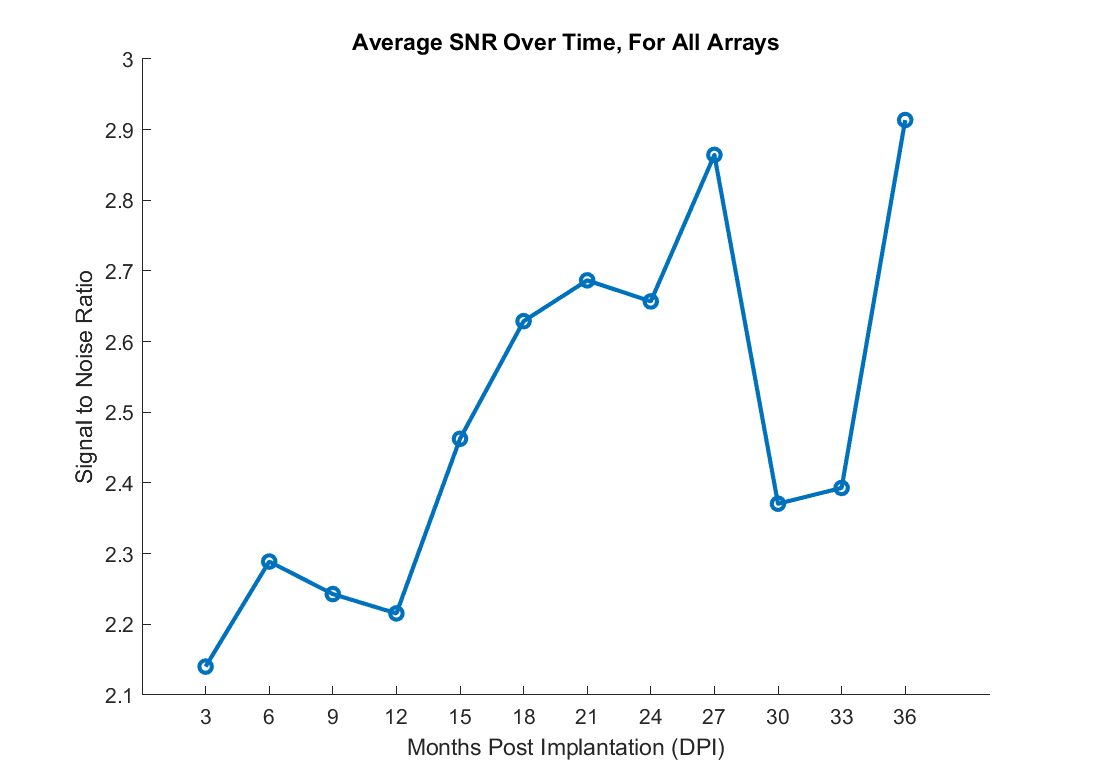
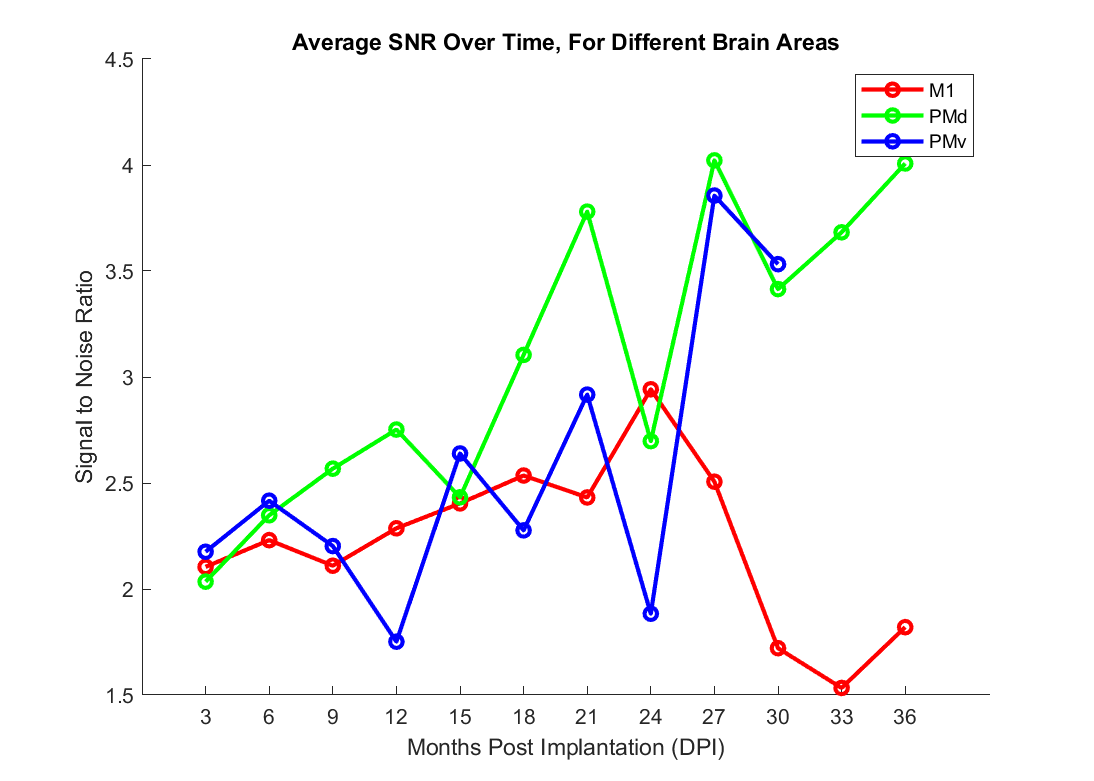
finish first version of figure six

diff --git a/code/paper_figures_code/figure_six.m b/code/paper_figures_code/figure_six.m
@@ -10,34 +10,42 @@ all_array_names_temp = {array_data.array_name};
 all_days_temp = [array_data.relative_days];
 all_SNR_temp = [array_data.SNR_all_channels];
 array_SNR = nan(numel(time_points_in_days),numel(array_names));
+areas = {'M1','PMd','PMv'};
+colors = hsv(numel(areas));
 
-for iArray = 1:length(array_names)
-    
-    array_files_index = cellfun(@(x) strcmp(x,array_names{iArray}),all_array_names_temp);
-    array_relative_days = all_days_temp(array_files_index);
-    array_SNR_per_file = all_SNR_temp(array_files_index);
-    for iTimePoint = 1:length(time_points_in_days)
-        ind_array_SNR = nan(numel(array_relative_days),1);
-        for iFile = 1:length(array_relative_days)
-            if ((time_points_in_days(iTimePoint)- one_month) < array_relative_days(iFile)) && (array_relative_days(iFile) < (time_points_in_days(iTimePoint)+ one_month))
-                ind_array_SNR(iFile) = array_SNR_per_file(iFile);
+for iArea = 1:numel(areas)
+    array_SNR = nan(length(time_points_in_days),length(array_names));
+    for iArray = 1:length(array_names)
+        if strfind(array_names{iArray},areas{iArea})
+            array_files_index = cellfun(@(x) strcmp(x,array_names{iArray}),all_array_names_temp);
+            array_relative_days = all_days_temp(array_files_index);
+            array_SNR_per_file = all_SNR_temp(array_files_index);
+            for iTimePoint = 1:length(time_points_in_days)
+                ind_array_SNR = nan(numel(array_relative_days),1);
+                for iFile = 1:length(array_relative_days)
+                    if ((time_points_in_days(iTimePoint)- one_month) < array_relative_days(iFile)) && (array_relative_days(iFile) < (time_points_in_days(iTimePoint)+ one_month))
+                        ind_array_SNR(iFile) = array_SNR_per_file(iFile);
+                    end
+                end
+                array_SNR(iTimePoint,iArray) = nanmean(ind_array_SNR);
+                clear ind_array_SNR
             end
         end
-        array_SNR(iTimePoint,iArray) = nanmean(ind_array_SNR);
-        clear ind_array_SNR
     end
+    
+    mean_array_SNR{iArea} = nanmean(array_SNR,2);
 end
-
-mean_array_SNR = nanmean(array_SNR,2);
-
 %% plotting
 
-figure('name','Long-term, chronic array recordings','visible','off','color','w');
-plot(time_points_in_days/one_month,mean_array_SNR,'o-','linewidth',2)
+figure('name','Long-term, chronic array recordings','visible','off','color','w'); hold on
+for iArea = 1:numel(areas)
+    plots{iArea} = plot(time_points_in_days/one_month,mean_array_SNR{iArea},'o-','linewidth',2,'color',colors(iArea,:));
+end
 xlabel('Months Post Implantation (DPI)')
 xticks(time_points_in_days/one_month);
+legend([plots{:}],areas)
 ylabel('Signal to Noise Ratio')
-title('Average SNR Over Time, For All Arrays')
+title('Average SNR Over Time, For Different Brain Areas')
 set(gcf,'pos',[1150,400,700,500])
 box off
 
